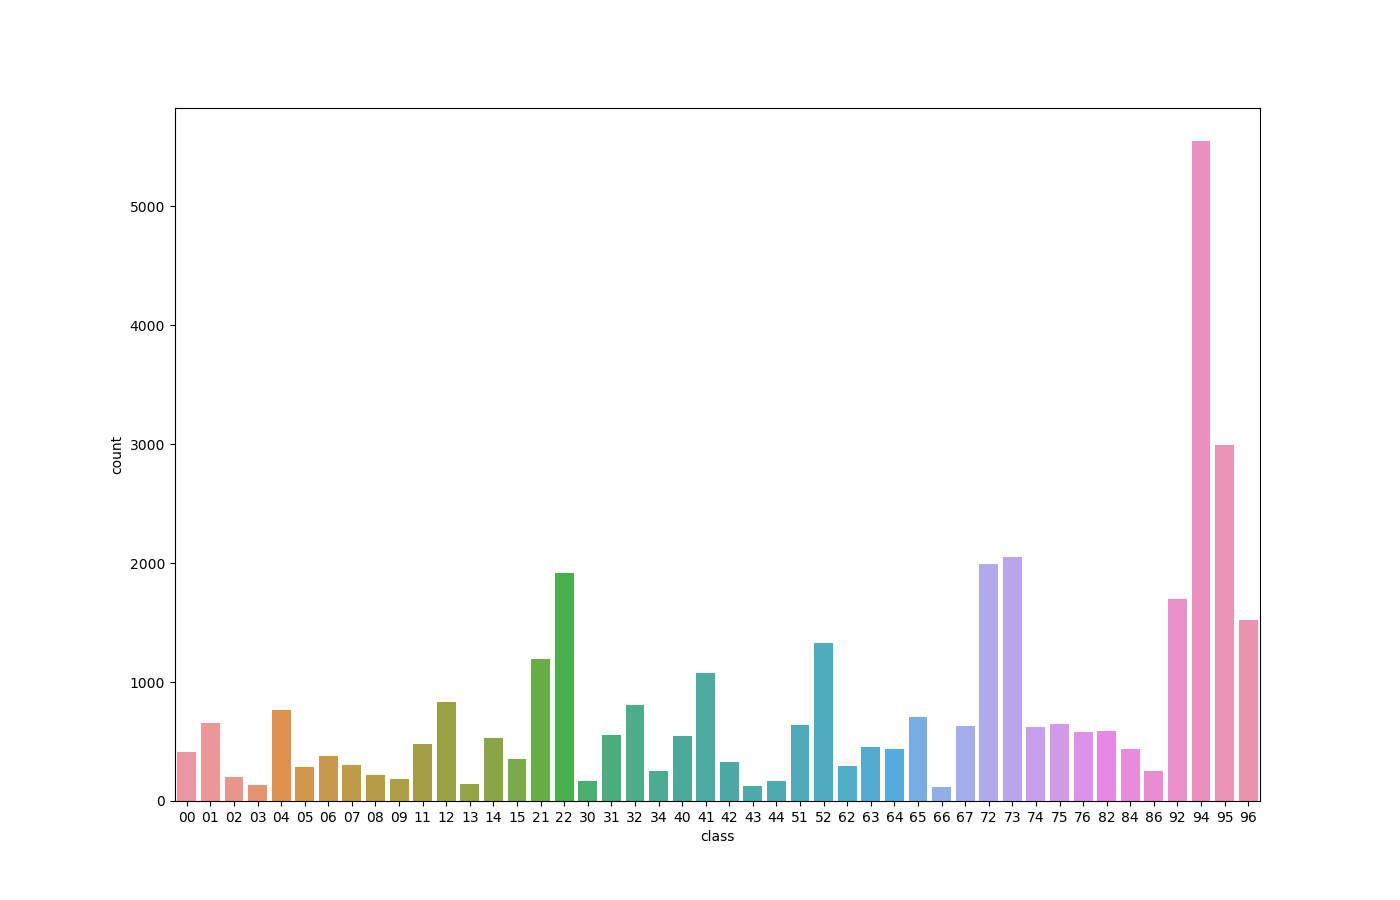
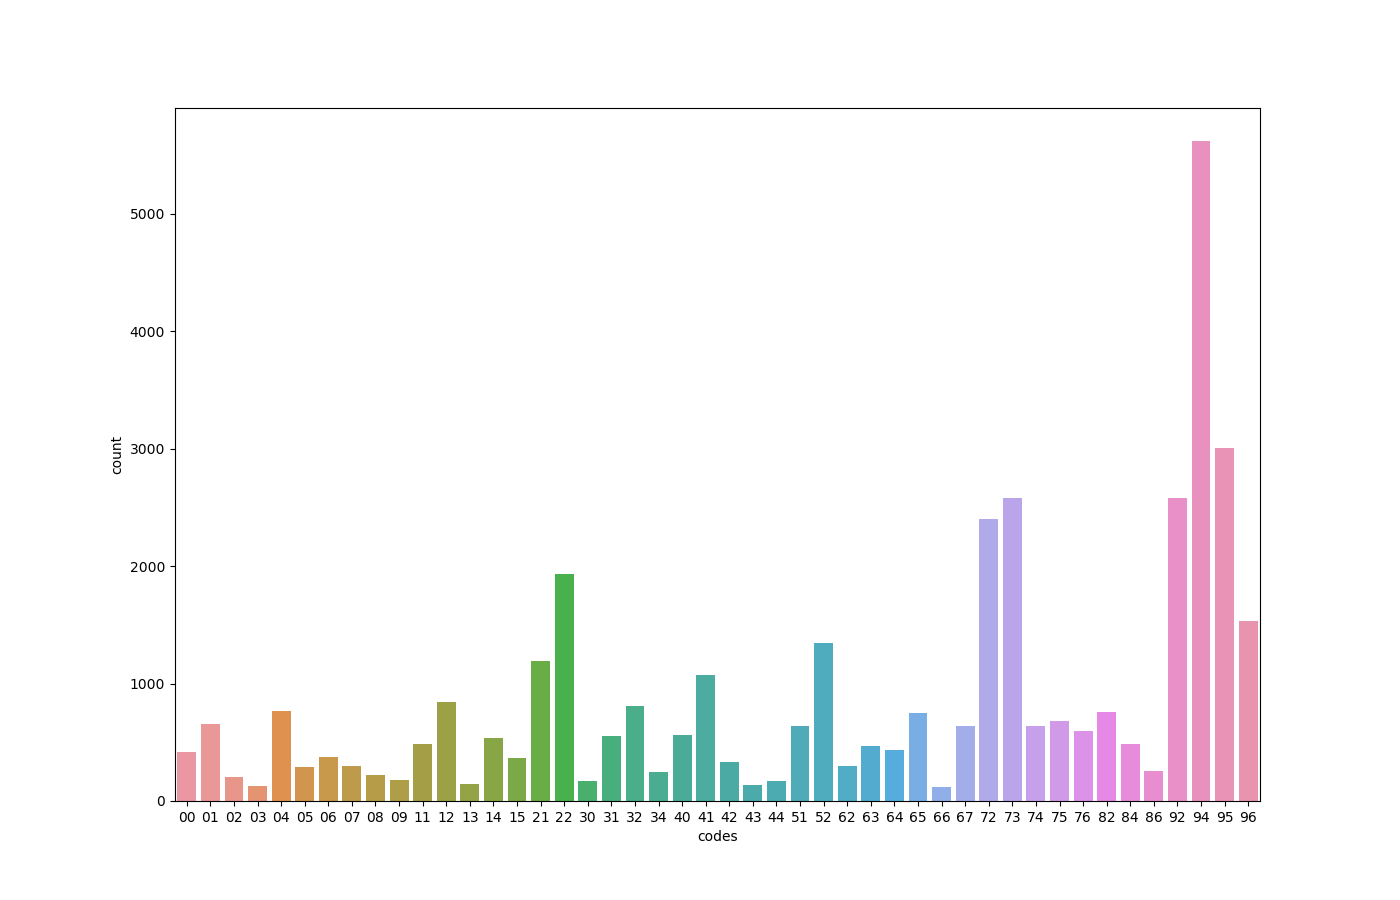
changes for flask

diff --git a/scribe_classifier/flask_demo/templates/scribe_results.html b/scribe_classifier/flask_demo/templates/scribe_results.html
@@ -5,14 +5,8 @@
     <table>
         <tr>
             <td>
-                <h2>Classified by Uncombined Text Model</h2><br>
+                <h2>Classified by Ensemble Learning Model</h2><br>
                 <img src="{{url_for('static', filename='img/usa_midsize_tech_histogram.png')}}">
-            </td>
-        </tr>
-        <tr>
-            <td>
-                <h2>Classified by Combined Text Model</h2><br>
-                <img src="{{url_for('static', filename='img/combined_usa_midsize_tech_histogram.png')}}">
             </td>
         </tr>
     </table>

diff --git a/flask_pregen.py b/flask_pregen.py
@@ -5,9 +5,10 @@ from matplotlib import pyplot as plt
 from sklearn import metrics
 from scribe_classifier.data.canada import TitleSet
 from scribe_classifier.data.scribe import DataFramePickler
-from scribe_classifier.flask_demo.views import models
 from scribe_classifier.data.canada.NOCdb.readers.codes import AllCodes, CodeRecord
 from scribe_classifier.data.canada.NOCdb.models.neural_networks.combined_models import CombinedModels
+from typing import Dict, Tuple, List
+from scribe_classifier.data.scribe.util.ObjectPickler import ObjectPickler
 import click
 import os
 
@@ -46,31 +47,6 @@ class ClassificationReporter:
         df = df[cols]
         return df
 
-
-def generate_scribe_category_plot(scribe_query_df, output_fname, label: str ='class'):
-    fig, ax = plt.subplots()
-    fig.set_size_inches(14, 9)
-    scribe_query_df.sort_values(label, inplace=True)
-    # print(scribe_query_df[label])
-    sns.countplot(data=scribe_query_df, x=label, ax=ax)
-    fig.savefig(output_fname)
-    pass
-
-
-def generate_canada_category_plot(output_fname, add_empty_class):
-    code_file = './source_data/pickles/canada/tidy_sets/all_codes.P'
-    example_file = './source_data/pickles/canada/tidy_sets/all_titles.P'
-    dataset = TitleSet()
-    dataset = TitleSet.load_from_pickle(filename=example_file)
-    if add_empty_class:
-        dataset.copy_and_append_empty_string_class()
-    df = dataset.to_dataframe(target_level=2)
-    fig, ax = plt.subplots()
-    fig.set_size_inches(14, 9)
-    sns.countplot(data=df, x='class', ax=ax)
-    fig.savefig(output_fname)
-
-
 def get_combined_models():
     mdl_strs = dict()
     models = dict()  # type: Dict[int, CombinedModels]
@@ -80,7 +56,6 @@ def get_combined_models():
         level_mdl_strs['bayes'] = 'source_data/pickles/canada/trained_models/simple.lvl%d.bayes.P' % target_level
         level_mdl_strs['ann'] = 'nnmodels/ANN/neural_net_level%d.frozen.P' % target_level
         mdl_strs[target_level] = level_mdl_strs
-
     # models
     for target_level in range(1, 4):
         try:
@@ -94,49 +69,43 @@ def get_combined_models():
     return models
 
 
-def classify_scribe_data(scribe_query_df, label='class'):
+def classify_scribe_data(scribe_query_df, batch_size, keras_batch_size=4000, label='class'):
     models = get_combined_models()
     titles = scribe_query_df['title']
     titles.fillna(value="", inplace=True)
     # print("# of titles in scribe db: ", len(titles))
-    titles_pred = models[2].batched_predict(titles)
+    titles_pred = models[2].batched_predict(titles, batch_size=batch_size, keras_batch_size=keras_batch_size)
     # print(titles_pred)
     scribe_query_df[label] = pd.Series(titles_pred)
 
 
-def classify_test_set():
+def classify_test_set(batch_size, keras_batch_size=4000):
     models = get_combined_models()
     all_codes = AllCodes.load_from_pickle('./source_data/pickles/canada/tidy_sets/all_codes.P', is_path=True)
     all_codes.add_emptyset()
     classes = all_codes.get_codes_for_level(target_level=2)
-
     # dataset
-    valid = TitleSet.load_from_pickle('./source_data/pickles/canada/test_sets/train.set.lvl4.P',
-                                      is_path=True)  # type: TitleSet
-    test = TitleSet.load_from_pickle('./source_data/pickles/canada/test_sets/test.set.lvl4.P',
-                                     is_path=True)  # type: TitleSet
-    train, valid = valid.split_data_train_test(target_level=4, test_split=0.25)
+    train = TitleSet.load_from_pickle('./source_data/pickles/canada/test_sets/train.set.lvl4.P', is_path=True)  # type: TitleSet
+    test = TitleSet.load_from_pickle('./source_data/pickles/canada/test_sets/test.set.lvl4.P', is_path=True)  # type: TitleSet
+    train, valid = train.split_data_train_test(target_level=4, test_split=0.25)
     del train
     train = None
     valid = valid.copy_and_append_empty_string_class("NA")
     test = test.copy_and_append_empty_string_class("NA")
-
     print("# validation records: ", len(valid.records))
     print('# test records: ', len(test.records))
-
     # predictions
     valid_pred = []
     test_pred = []
     try:
-        valid_pred = models[2].batched_predict(valid.get_title_vec())
-        test_pred = models[2].batched_predict(test.get_title_vec())
+        valid_pred = models[2].batched_predict(valid.get_title_vec(), batch_size=batch_size, keras_batch_size=keras_batch_size)
+        test_pred = models[2].batched_predict(test.get_title_vec(), batch_size=batch_size, keras_batch_size=keras_batch_size)
     except MemoryError:
         print("had memory error trying to predict on records")
-
     # generate reports
     valid_report = ClassificationReporter(valid.get_code_vec(target_level=2), valid_pred, classes=classes)
     test_report = ClassificationReporter(test.get_code_vec(target_level=2), test_pred, classes=classes)
-    return valid_report, test_report
+    return valid_report, test_report, valid_pred, test_pred
 
 
 @click.group()
@@ -145,28 +114,91 @@ def main_flask_prep():
     pass
 
 
-@main_flask_prep.command(name='df')
-def generate_dataframes():
-    """Classify Scribe data and create dataframes for html reports on classification metrics"""
+def create_dataframe(pred):
+    df = pd.DataFrame()
+    df['class'] = pred
+    return df
+
+
+@main_flask_prep.command(name='reports')
+@click.option('--batch_size', type=click.INT, default=4000, help='set number of records to classify at once')
+@click.option('--keras_batch_size', type=click.INT, default=4000, help='set keras batch size parameter')
+def generate_canada_reports(batch_size, keras_batch_size):
+    """create dataframes for html reports on classification metrics"""
+    valid_report, test_report, valid_pred, test_pred = classify_test_set(
+        batch_size=batch_size,
+        keras_batch_size=keras_batch_size
+    )
+    ObjectPickler.save_as_pickle(obj=valid_report, filepath="scribe_classifier/flask_demo/pickles/report.valid.P")
+    ObjectPickler.save_as_pickle(obj=test_report, filepath="scribe_classifier/flask_demo/pickles/test.valid.P")
+    # vdf = create_dataframe(valid_pred)
+    # tdf = create_dataframe(test_pred)
+    # DataFramePickler.save_as_pickle(df=vdf, filepath='scribe_classifier/flask_demo/pickles/valid.df.P')
+    # DataFramePickler.save_as_pickle(df=tdf, filepath='scribe_classifier/flask_demo/pickles/test.df.P')
+
+
+@main_flask_prep.command(name='scribe_df')
+@click.option('--batch_size', type=click.INT, default=4000, help='set number of records to classify at once')
+@click.option('--keras_batch_size', type=click.INT, default=4000, help='set keras batch size parameter')
+def scribe_dataframe(batch_size, keras_batch_size):
+    """Classify Scribe data and save as a pickle"""
     scribe_query_df = DataFramePickler.load_from_pickle('./SavedScribeQueries/midsize_tech_usa.P')
-    classify_scribe_data(scribe_query_df, label='class')
-    valid_report, test_report = classify_test_set()
+    classify_scribe_data(scribe_query_df,
+                         label='class',
+                         batch_size=batch_size,
+                         keras_batch_size=keras_batch_size
+                         )
+    DataFramePickler.save_as_pickle(df=scribe_query_df,
+                                    filepath='SavedScribeQueries/classified/scribe_classified_df.P')
 
 
-@main_flask_prep.command(name='plots')
+def generate_canada_category_plot(output_fname, add_empty_class, target_level=2):
+    code_file = './source_data/pickles/canada/tidy_sets/all_codes.P'
+    ac = AllCodes.load_from_pickle(file=code_file, is_path=True)
+    example_file = './source_data/pickles/canada/tidy_sets/all_titles.P'
+    dataset = TitleSet.load_from_pickle(file=example_file, is_path=True)
+    if add_empty_class:
+        dataset.copy_and_append_empty_string_class()
+    df = dataset.to_dataframe(target_level=target_level)
+    fig, ax = plt.subplots()
+    fig.set_size_inches(14, 9)
+    sns.countplot(data=df, x='codes', ax=ax)
+    fig.savefig(output_fname)
+
+
+@main_flask_prep.command(name='canada_plots')
 @click.option('--force/--no-force', default=False, help='Re-generate images even if they already exist')
-def generate_plots(force):
-    """generate some plots"""
-    scribe_query_df = DataFramePickler.load_from_pickle('./SavedScribeQueries/classified/midsize_tech_usa.P')
+def generate_canada_plots(force):
+    """generate some plots from the dataframe and train/test set pickles"""
+    print("Creating Metrics plots")
     canada_img_path = os.path.abspath('./scribe_classifier/flask_demo/static/img/canada_histogram.png')
     canada_img_path_with_emptycat = os.path.abspath('./scribe_classifier/flask_demo/static/img/canada_histogram_emptycat.png')
     if force or not os.path.exists(canada_img_path):
         generate_canada_category_plot(canada_img_path, False)
     if force or not os.path.exists(canada_img_path_with_emptycat):
         generate_canada_category_plot(canada_img_path_with_emptycat, True)
+
+
+def generate_scribe_category_plot(scribe_query_df, output_fname, label: str ='class'):
+    fig, ax = plt.subplots()
+    fig.set_size_inches(14, 9)
+    scribe_query_df.sort_values(label, inplace=True)
+    # print(scribe_query_df[label])
+    sns.countplot(data=scribe_query_df, x=label, ax=ax)
+    fig.savefig(output_fname)
+    pass
+
+
+@main_flask_prep.command(name='scribe_plots')
+@click.option('--force/--no-force', default=False, help='Re-generate images even if they already exist')
+def generate_scribe_plots(force):
+    print("Creating Scribe Plot")
+    scribe_query_df = DataFramePickler.load_from_pickle('./SavedScribeQueries/classified/scribe_classified_df.P')
     scribe_img_path = os.path.abspath('./scribe_classifier/flask_demo/static/img/usa_midsize_tech_histogram.png')
     if force or not os.path.exists(scribe_img_path):
         generate_scribe_category_plot(scribe_query_df, scribe_img_path, 'class')
+
+
 
 
 if __name__ == "__main__":

diff --git a/scribe_classifier/data/canada/NOCdb/models/neural_networks/combined_models.py b/scribe_classifier/data/canada/NOCdb/models/neural_networks/combined_models.py
@@ -175,8 +175,10 @@ class CombinedModels(BaseEstimator, ClassifierMixin):
 
     def batched_predict(self, X, batch_size=4000, keras_batch_size=32):
         preds = []
-        for i in range(0, len(X), batch_size):
-            j = min(i + 4000, len(X))
+        total_count = len(X)
+        for i in range(0, total_count, batch_size):
+            j = min(i + batch_size, total_count)
+            print("%d to %d of %d (%d%%)" % (i+1, j, total_count, (j*100) / total_count))
             batch = X[i:j]
             # print('i:', i, "\tj:", j)
             preds.append(self.predict(batch, keras_batch_size=keras_batch_size))

diff --git a/scribe_classifier/flask_demo/views.py b/scribe_classifier/flask_demo/views.py
@@ -4,7 +4,7 @@ from typing import Dict
 import pandas as pd
 from flask import render_template
 from flask import request
-from preconstruct_eval_dataframes_for_flask import ClassificationReporter
+from flask_pregen import ClassificationReporter
 from scribe_classifier.data.canada.NOCdb.models.neural_networks.combined_models import CombinedModels
 from scribe_classifier.data.canada.NOCdb.readers.codes import AllCodes, CodeRecord
 from scribe_classifier.data.canada.NOCdb.readers.titles import TitleSet

diff --git a/scribe_classifier/data/scribe/util/ObjectPickler.py b/scribe_classifier/data/scribe/util/ObjectPickler.py
@@ -3,9 +3,9 @@ import pickle
 
 class ObjectPickler:
     @staticmethod
-    def save_as_pickle(df, filepath):
+    def save_as_pickle(obj, filepath):
         pickle_file = open(filepath, 'wb')
-        pickle.dump(df, pickle_file)
+        pickle.dump(obj, pickle_file)
 
     @staticmethod
     def load_from_pickle(filepath):
